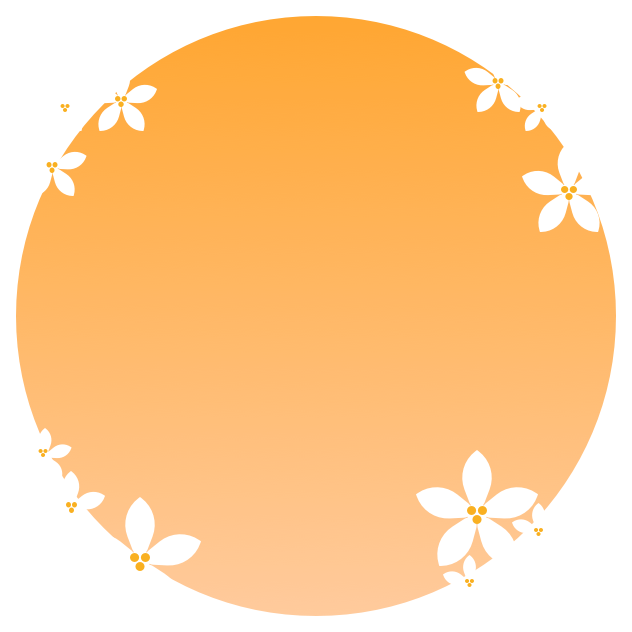
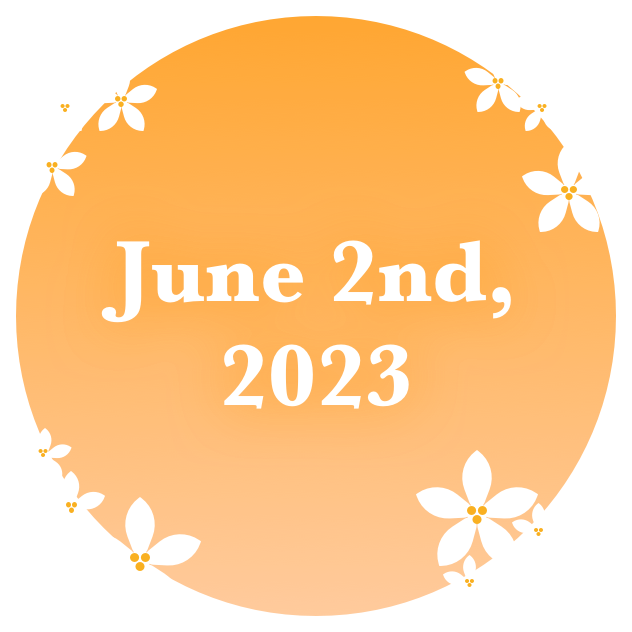
Updated images and ar link

Changed region(s): [[0.3608, 0.5411, 0.6614, 0.6614], [0.1503, 0.3608, 0.481, 0.5111], [0.5111, 0.3608, 0.8117, 0.5111]]

diff --git a/index.html b/index.html
@@ -14,6 +14,14 @@
     <link href="css/aos.css?ver=1.1.0" rel="stylesheet">
     <link href="css/ekko-lightbox.css?ver=1.1.0" rel="stylesheet">
     <link href="css/main.css?ver=1.1.0" rel="stylesheet">
+    <script>
+    	const linkElement = document.getElementById("ar-link");
+		linkElement.addEventListener("message", function (event) {
+			if (event.data == "_apple_ar_quicklook_button_tapped") {
+				window.location = 'Casey_Jessica _Wedding.ics';
+    		}
+		}, false);
+    </script>
     <script src="https://cdn.apple-mapkit.com/mk/5.x.x/mapkit.js"></script>
     <style>
         #map {
@@ -45,12 +53,10 @@
   <div class="ww-wedding-announcement d-flex align-items-center justify-content-start">
   
     <div class="container ww-announcement-container">
-    <a rel="ar" href="images/invite.usdz#callToAction=Add%20to%20calendar&amp;checkoutTitle=Coming%20Soon&amp;checkoutSubtitle=June%202nd%202023.&amp;price=" id="ar-link">
-	  <img class="ww-title img-fluid mt-1" src="images/logo.png" alt="Heart" data-aos="zoom-in-down" data-aos-delay="300" data-aos-duration="1000"/>    
-<!--       <p class="ww-couple-name ww-title" data-aos="zoom-in-down" data-aos-delay="300" data-aos-duration="1000">Casey & Jessica</p> -->
-      <img class="img-fluid mt-1" src="images/laurel-1.png" alt="Heart" data-aos="zoom-in-down" data-aos-delay="300" data-aos-duration="1000"/>
+    <a rel="ar" href="images/invite.usdz#callToAction=Add%20to%20Calendar&amp;checkoutTitle=Casey%20and%20Jessica%27s%20Wedding&amp;checkoutSubtitle=June%202nd%202023.&amp;price=" id="ar-link">
+	  <img class="ww-title img-fluid mt-1" src="images/logo.png" alt="Casey & Jessica" data-aos="zoom-in-down" data-aos-delay="300" data-aos-duration="1000"/>    
+      <img class="img-fluid mt-1" src="images/laurel-1.png" alt="June 2nd, 2023" data-aos="zoom-in-down" data-aos-delay="300" data-aos-duration="1000"/>
 	</a>
-      <p class="h1 mt-5 ww-title" data-aos="zoom-in-down" data-aos-delay="300" data-aos-duration="1000" data-aos-offset="10">June • 2ᴺᴰ • 2023</p>
     </div>
   </div>
 </div>
@@ -86,10 +92,11 @@
             <li><i class="text-muted fas fa-map-marker-alt"></i><span class="pl-2 text-muted">The Paramour Estate, Los Angeles, California</span></li>
             <li class="pt-2"><i class="text-muted far fa-calendar-alt"></i><span class="pl-2 text-muted">June 2, 2023 @ 4 PM</span></li>
           </ul>    
-		  <div class="my-3"><img class="img-fluid" src="images/wedding-party.jpg" alt="Wedding Party" data-aos="fade-down-right" data-aos-duration="1000"/></div>
+		  <div class="my-3"><img class="img-fluid" src="images/wedding-party.jpg" alt="Paramour Estate Overlook" data-aos="fade-down-right" data-aos-duration="1000"/></div>
 <!--           https://snapshot.apple-mapkit.com/api/v1/snapshot?center=34.09478760578792%2C-118.27126312255858&t=standard&scale=1&spn=0.06837642386624054%2C0.07724761962890625&size=500x500&lang=en-US&poi=1&annotations=%5B%7B%22point%22%3A%2234.09478759765625%2C-118.2712631225586%22%2C%22markerStyle%22%3A%22large%22%2C%22color%22%3A%22ffa57d%22%7D%5D&expires=1703808000&teamId=XN63WD95N8&keyId=S5A7AXL5G8&signature=laEV54rMrHWfISMPqvGcMEMbGv7uZ5C5J5yYve1fGEZuAQ3pCUj3zVtuKJ2DQbEwVSOQELXvbzfTRSVx5OITfg -->
           
-			<p>Here's some things to expect at our wedding party...great drinks, cocktail attire, that we kindly ask no children, GREAT music, lots of memories. Parking will be very limited so we will have some limited shuttles from hotel. We encourage ride-sharing apps like Uber and Lyft. If you come riding on horseback...please don't. We ask instead for you to look yourself in the mirror and reconsider your life choices...</p>
+			<p>Here's some things to expect at our wedding party...tasty drinks, cocktail attire, GREAT music for dancing all night, and lots of memories. Parking will be very limited so we will are planning shuttles from hotel. We also encourage ride-sharing apps like Uber and Lyft. If you are considering riding in on horseback...please don't. The wedding party will not accomodate children, but stay tuned for other activities on Saturday that we hope they may participate.</p>
+			<p>We can't wait to celebrate with you all!</p>
         </div>
       </div>
       <div class="col-md-5 col-sm-12">
@@ -100,7 +107,7 @@
     <div class="row">
       <div class="col-md-7 col-sm-12">
         <div class="my-3">
-          <div class="h4">Stay Tuned for More...</div>
+          <div class="h4">Stay Tuned for More on Saturday...</div>
 <!-- 
           <ul>
             <li><i class="text-muted fas fa-map-marker-alt "></i><span class="pl-2 text-muted">City Place, Hendon, London, UK</span></li>
@@ -168,11 +175,13 @@
           <div class="ww-social-links"><a class="btn btn-link" href="https://www.instagram.com/yogamore/"><i class="fab fa-instagram" aria-hidden="true"></i></a></div>
         </div>
       </div>
+      <div class="col-sm-12">
 	  	<p class="pt-3 text-left text-muted">Casey and Jessica met at the University of Florida in the Summer of 2009 in their Introduction to World Music class. They quickly bonded over their mutual appreciation for art, photography, music, movies, and food. They spent the early days of their friendship doing photo walks around Gainesville, FL and studying together. The following year, their friendship evolved into a romantic relationship and the two grew even closer.</p>
 		<p class="pt-3 text-left text-muted">Upon graduating in 2013, they decided despite their professional careers starting in different states in the USA (Jessica in Houston, Texas for Teach for America and Casey in Detroit, Michigan for Ford) to continue as a long distance relationship where they made frequent visits to see each other and to travel together for over two years. There were also many date nights using Netflix and FaceTime. During this time their travels took them to many exciting cities together including New York, Los Angeles, Austin, Seoul, Chicago, and…San Francisco.</p>
 		<p class="pt-3 text-left text-muted">After so much time apart they found the area charming and filled with opportunity for them to start the next phase of their lives and decided to move together to the San Francisco Bay Area in California in 2016. In the years since their love has grown deeper and their adventures more exciting. They’ve visited Japan, Singapore, Australia, Alaska, and Mexico. Of course, like many around the world, the biggest recent adventure was getting through the pandemic. They relied heavily on the support of friends, family, and each other to get through the tough times, but it also brought about a confidence that they were ready to move forward to the next part of their journey.</p>
 		<p class="pt-3 text-left text-muted">On Friday, September 3rd, 2021, with restaurants in San Francisco starting to return to normal times, Casey & Jessica went on a special date to Nopa, a place he had taken her on their first vacation to the city. Jessica was frustrated on the drive that her friends were unresponsive in confirming many of the exciting plans she had organized with them for the long weekend. That’s because those plans were all a ruse! At the end of the meal, Casey got up to coordinate with the waiters as Jessica started to get suspicious. She texted her sister, “I think he’s going to propose.” Nali quickly completely changed the subject with “How’s the food at the restaurant?”. Upon returning, and in the lull after selecting desserts, Casey anxiously said to Jessica “Oh! I saw this great video the other day I wanted to show you…”. She rolled her eyes thinking it would be some silly video about technology but then as the imagery faded in, it showed a collection of photo memories of the two since their first days of meeting to the present day along all their adventures. It ended with “You’ve had my heart for over a decade…I have a question…” Jessica looked up to see Casey on one knee and said “Yes!”. Everyone in the restaurant cheered, and Casey let Jessica know that they would be spending the weekend celebrating with friends.</p>
 		<p class="pt-3 text-left text-muted">Which brings us to now! Many of you all share these adventures with us and we can’t wait to make our wedding celebration something fantastic. It’s about time!</p>
+	</div>
     </div>
   </div>
 </div>
